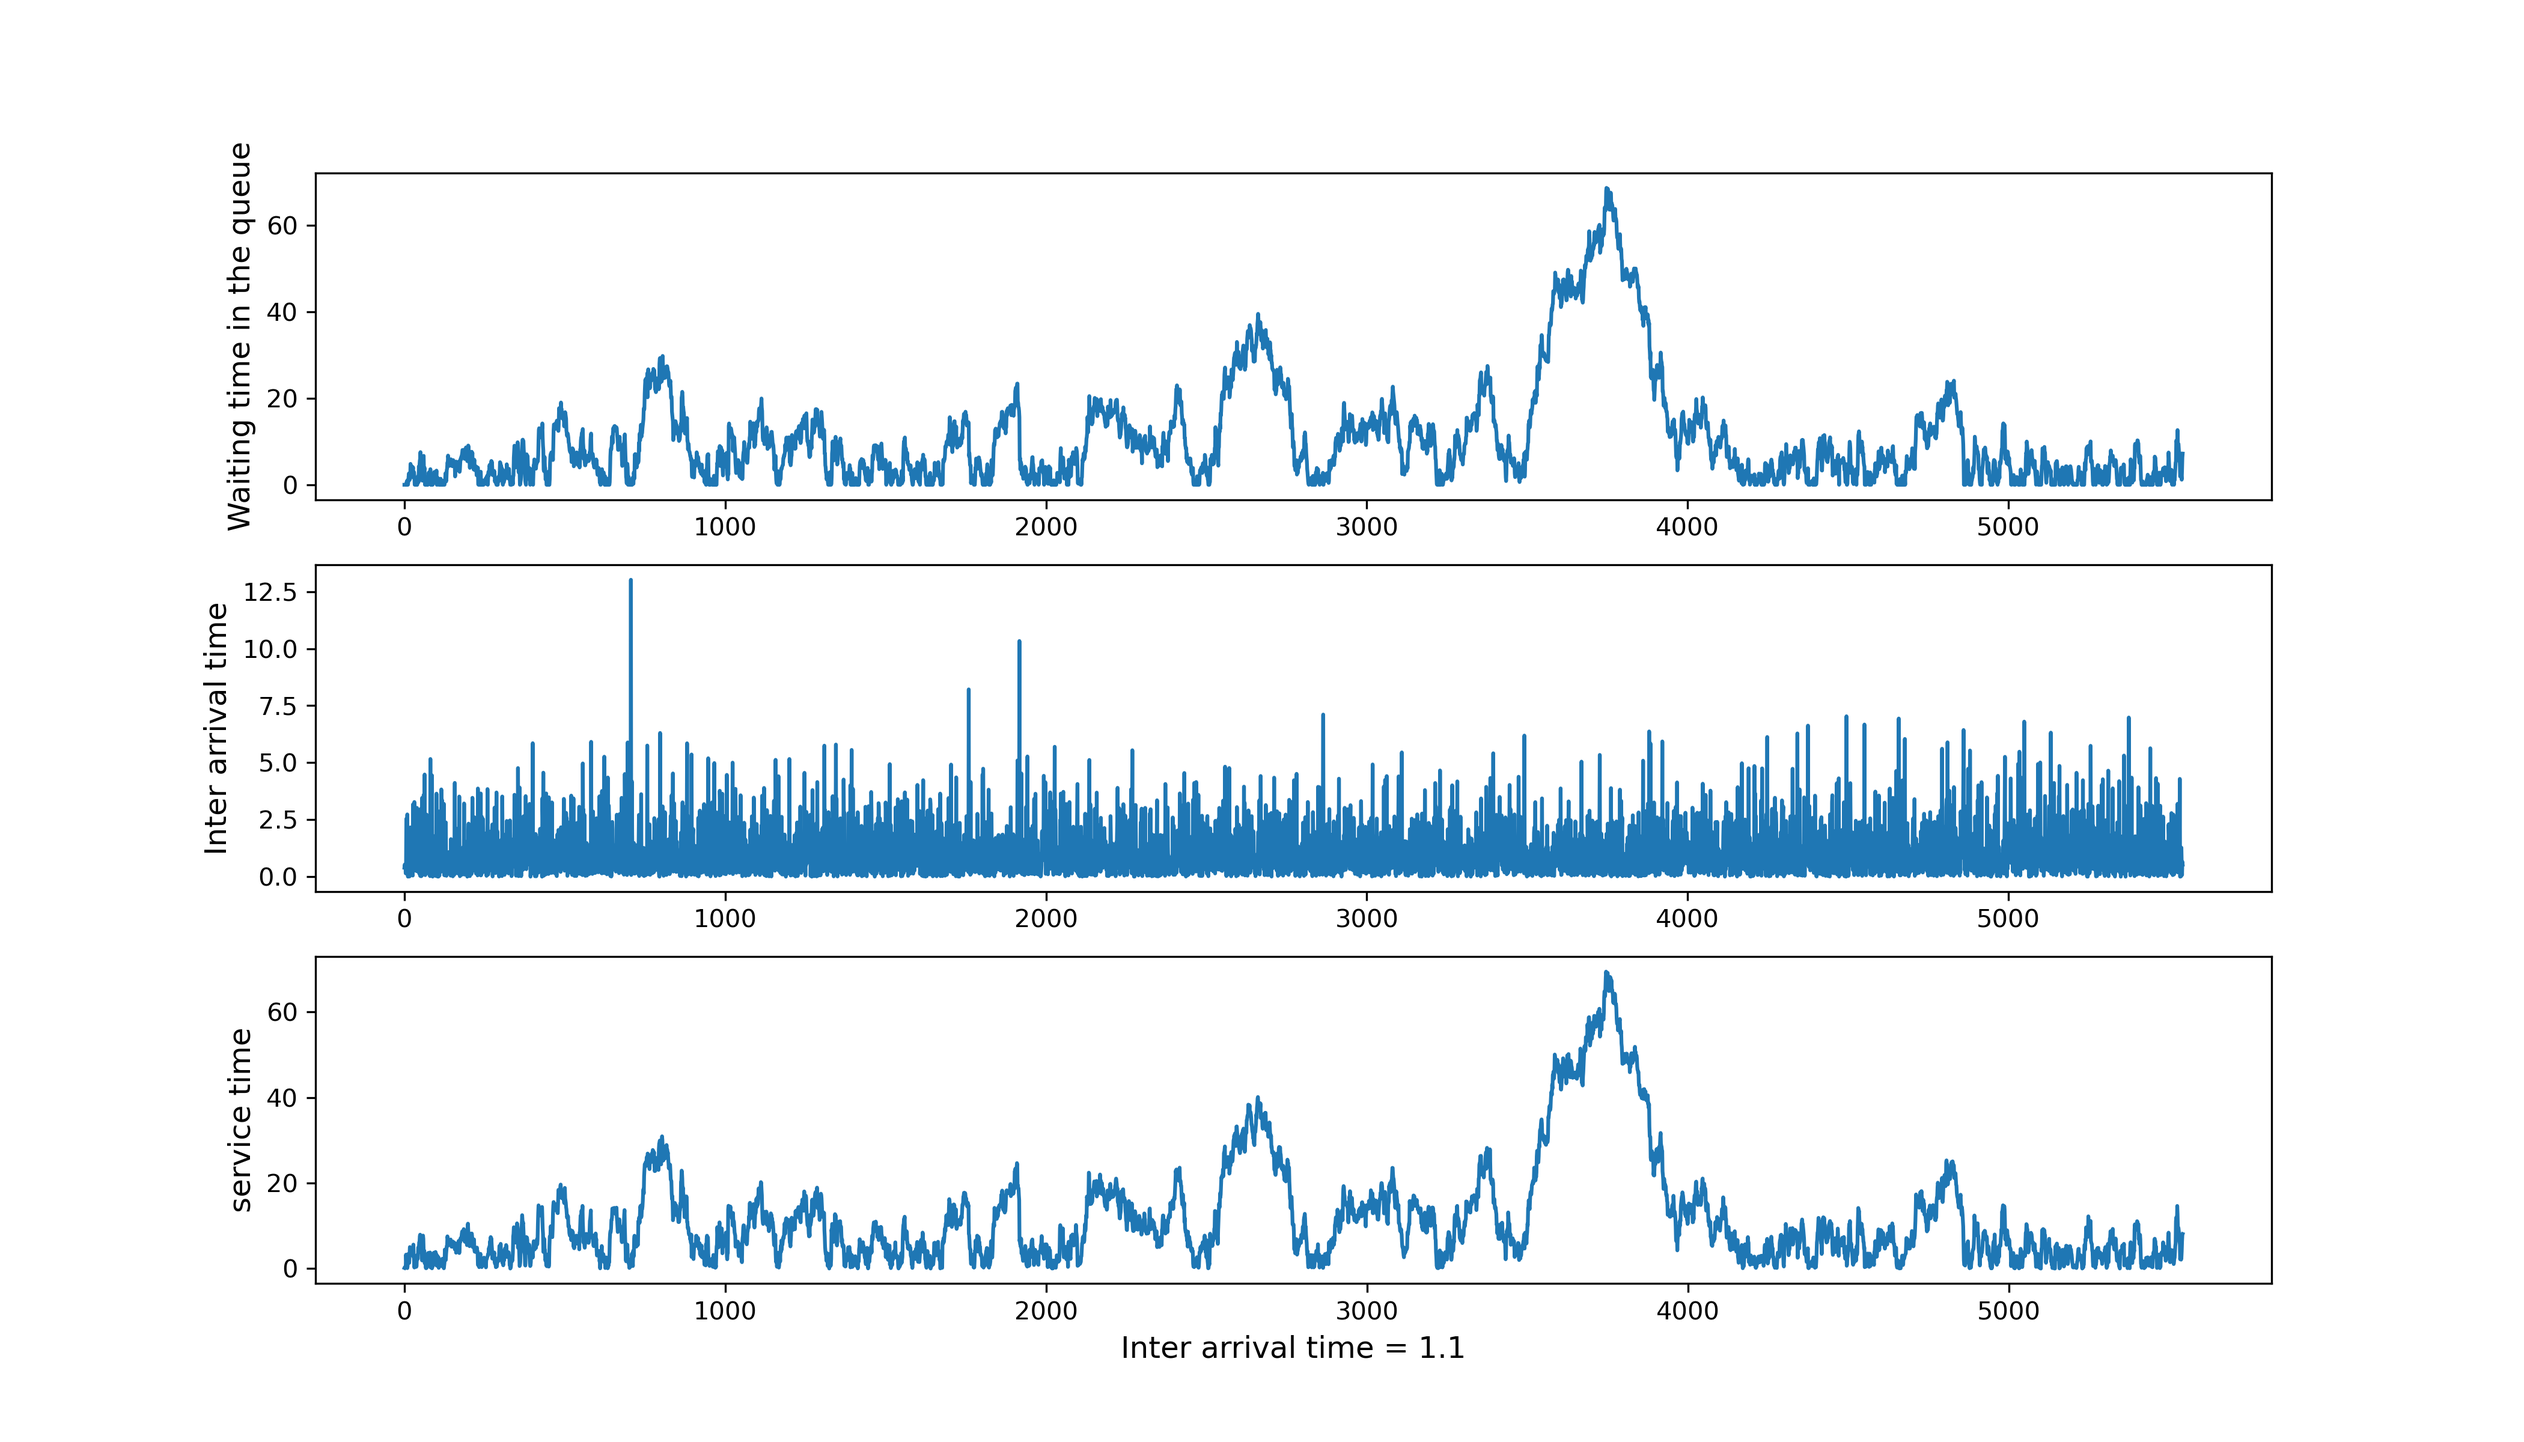
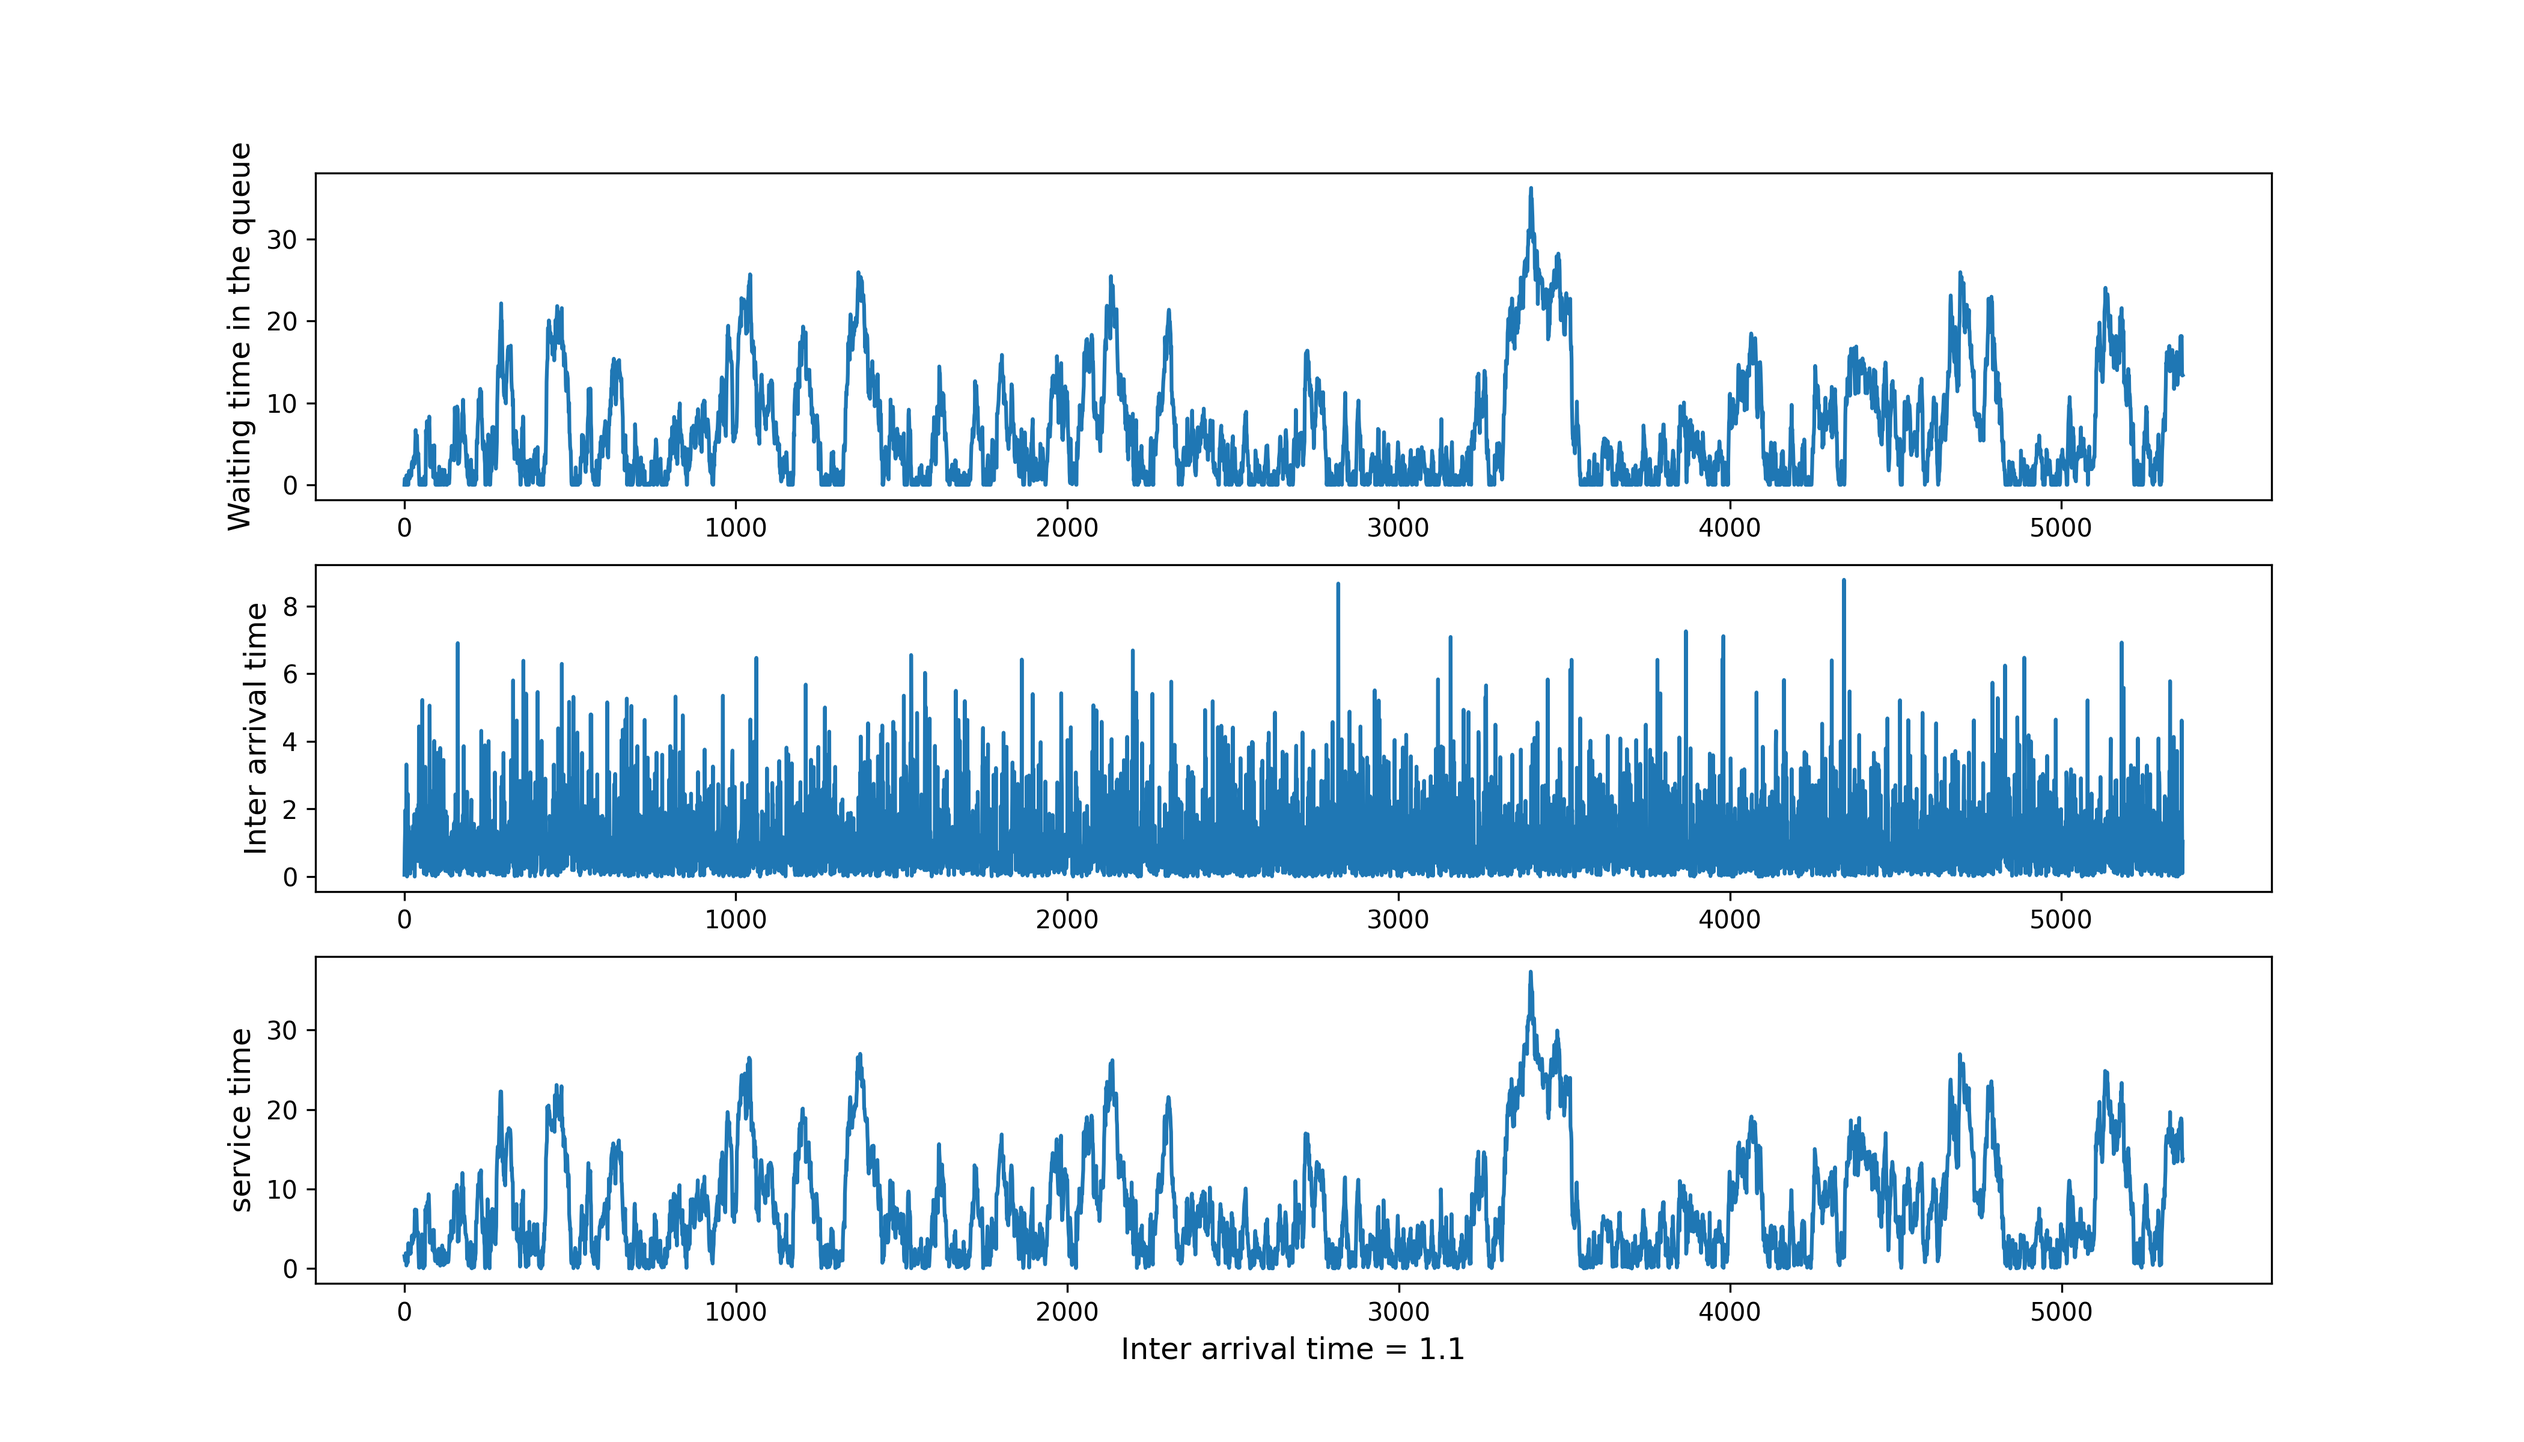
update code

diff --git a/NNHung_MM1_Simulation.py b/NNHung_MM1_Simulation.py
@@ -10,8 +10,8 @@ class MM1:
     def __init__(self, lamd, service_rate):
         self.lamd = lamd
         self.service_rate = service_rate
-        self.inter_arr = 1.1
-        self.serive_time = 1
+        self.inter_arr = 1/lamd
+        self.serive_time = 1/service_rate
         self.num_served_package = 0
 
     def set_inter_arrival_time(self, val):
